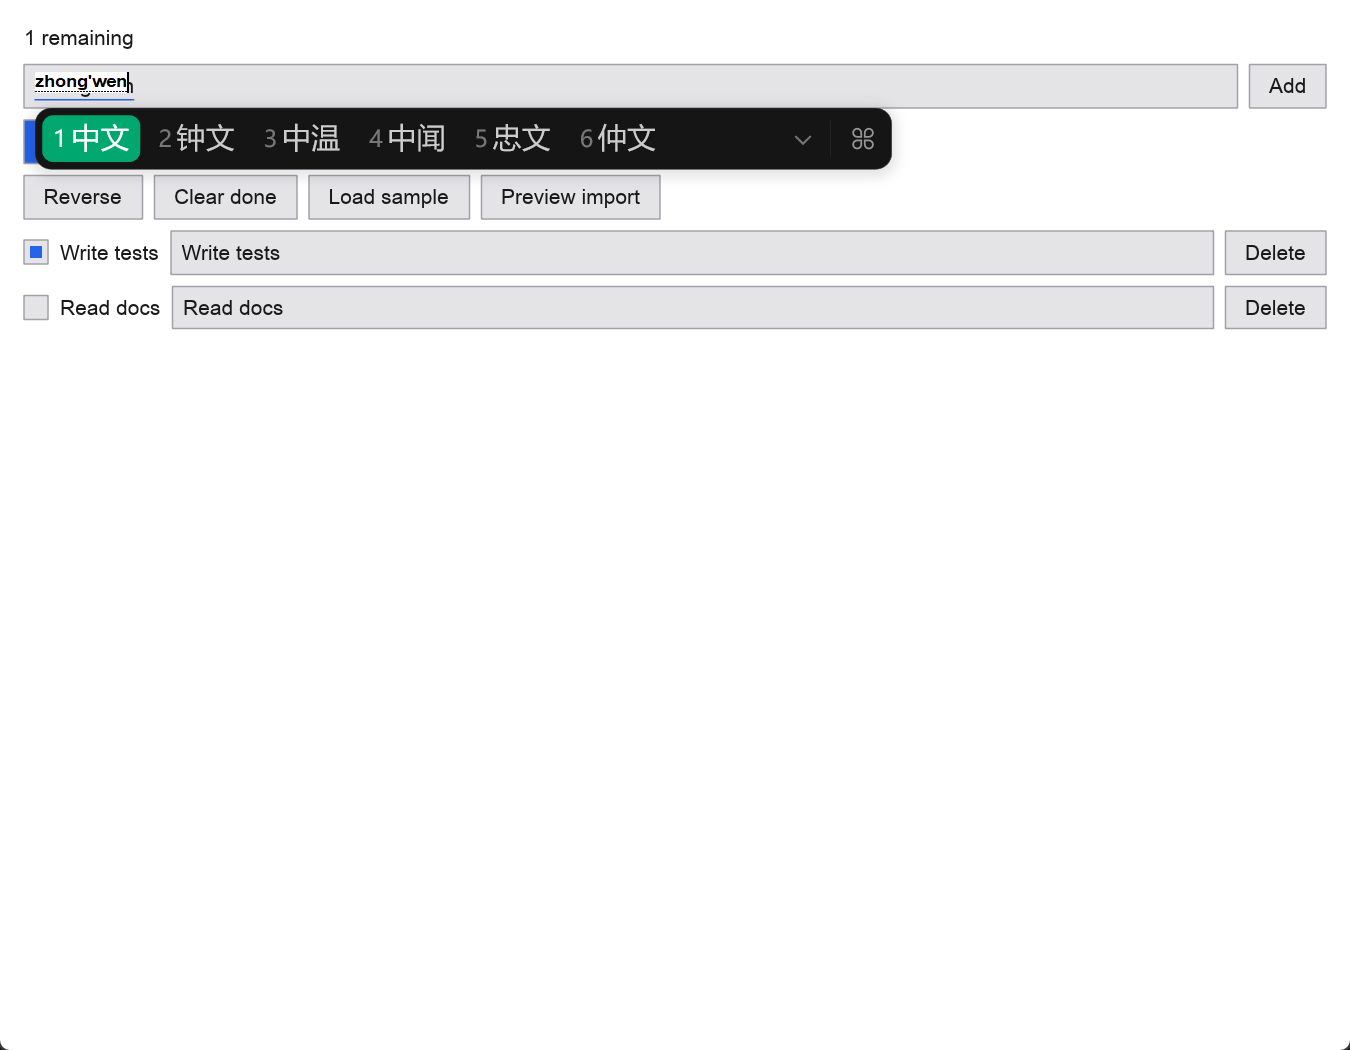
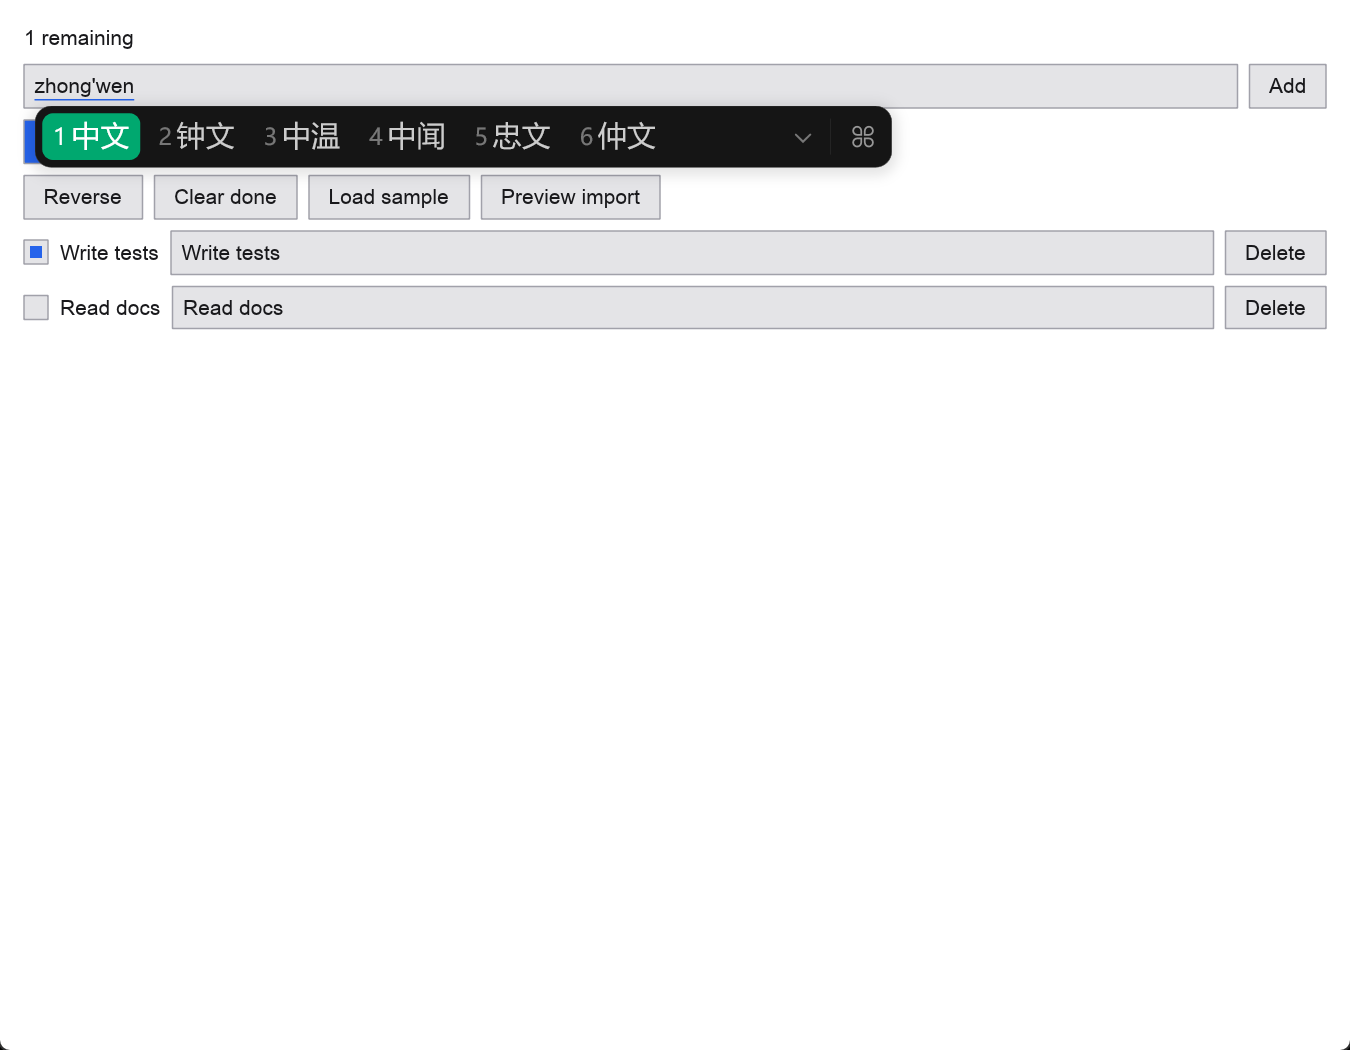
fix: draw the IME draft once, inside the input (#98)
Forwarding WM_IME_STARTCOMPOSITION to DefWindowProc lets Microsoft Pinyin
draw its own composition window on top of the app-drawn preedit, so the
draft appeared as two layers: the inline text plus a white IME overlay.

The window procedure now consumes WM_IME_STARTCOMPOSITION and only notifies
the runtime. The scene keeps drawing the preedit with the input's normal
text style, while the candidate window stays OS-drawn and anchored at the
preedit start.

Acceptance evidence 07 and the window/IME docs are updated.

diff --git a/crates/windows/src/host.rs b/crates/windows/src/host.rs
@@ -958,9 +958,10 @@ impl Host {
         result
     }
 
-    /// 用 caret 的物理客户区坐标定位 OS 组合与候选窗口；组合中改用 preedit 起点。
+    /// 把组合位置告诉 IME，并用 preedit 起点定位候选窗口。
     ///
-    /// `COMPOSITIONFORM` / `CANDIDATEFORM` 的坐标相对窗口左上角，不是屏幕坐标。
+    /// 系统组合窗口本身被 `WM_IME_STARTCOMPOSITION` 的窗口过程分支抑制；这里的
+    /// `COMPOSITIONFORM` 仍参与候选窗定位。两个结构的坐标相对窗口左上角，不是屏幕坐标。
     fn position_ime(&self, snapshot: &PresentationSnapshot) {
         let Some(node) = focused_input(snapshot) else {
             return;
@@ -971,8 +972,7 @@ impl Host {
         let Some(scene) = &self.scene else {
             return;
         };
-        // 组合窗口放在 preedit 起点：UI 已绘制 preedit，OS 的组合串与它重叠，
-        // 而不是在 caret（preedit 末尾）之后再画一份。
+        // 候选窗锚在 preedit 起点，而不是 caret（preedit 末尾）。
         let composition_start = snapshot
             .node(node)
             .and_then(SnapshotElement::edit)
@@ -1076,7 +1076,7 @@ impl Host {
             .map_err(HostError::Scene)?;
         let snapshot = self.runtime.presentation().map_err(HostError::Runtime)?;
         let mut scene = Scene::build(&snapshot, viewport).map_err(HostError::Scene)?;
-        // 组合期间由 OS 组合窗口绘制 caret；闪烁只在非组合状态生效。
+        // 组合期间不绘制 caret，草稿由 preedit 下划线标识；闪烁只在非组合状态生效。
         let composing = focused_composition(&snapshot);
         scene.set_caret_visible(self.caret_visible && !composing);
         Ok((scene, snapshot))
@@ -1645,6 +1645,13 @@ unsafe extern "system" fn wndproc(
         // 提交已经由 WM_IME_COMPOSITION 的 GCS_RESULTSTR 或 WM_CHAR 处理；
         // WM_IME_CHAR 若再交给默认窗口过程会产生重复字符。
         WM_IME_CHAR => LRESULT(0),
+        WM_IME_STARTCOMPOSITION => {
+            // 应用自己在输入框里绘制 preedit；把开始消息交给默认过程会让微软
+            // 拼音再画一份组合窗口，与 preedit 叠成两层。这里只通知运行时。
+            // 安全：派发期间不持有宿主引用，窗口过程借出一次。
+            unsafe { with_host(hwnd, |host| host.handle_message(message, wparam, lparam)) };
+            LRESULT(0)
+        }
         WM_PAINT => {
             let mut paint = PAINTSTRUCT::default();
             // 安全：hwnd 来自系统回调；paint 是有效的输出缓冲。

diff --git a/docs/实现/stage-two-验收.md b/docs/实现/stage-two-验收.md
@@ -84,9 +84,11 @@ border-box known dimension 直接交给文本测量，而最终绘制按 content
 **中文只显示草稿，候选确认后仍是草稿。** 微软拼音在候选确认时把提交字符作为
 `WM_CHAR` 送达，而宿主只在非组合状态调用 `insert_text_node`，组合中的字符被
 reducer 拒绝，模型从未写入。修复让组合中的 `WM_CHAR` 走 `compose_commit_node`。
-同一轮还发现应用绘制的 preedit 与系统组合窗口重影：组合窗口原先定位在 preedit
-末尾，现在定位到 preedit 起点，两者重叠。真实微软拼音配合合成按键的证据见
-[07](证据/stage-two/07-ime-preedit-with-candidates.png)（候选窗口、单一 preedit）
+第二轮人工试跑又发现草稿被画了两层：应用绘制 preedit，输入法又在自己的组合窗口里
+画了一份拼音（白色浮层）。窗口过程现在消费 `WM_IME_STARTCOMPOSITION` 而不交给
+默认过程，微软拼音不再绘制自己的组合窗口；preedit 由场景按输入框的普通文本样式
+绘制，候选窗仍由系统绘制并锚在 preedit 起点。真实微软拼音配合合成按键的证据见
+[07](证据/stage-two/07-ime-preedit-with-candidates.png)（单一 preedit，候选窗）
 与 [08](证据/stage-two/08-ime-committed.png)（提交为“中文”）。
 
 **Escape 取消失败。** 微软拼音吞掉 Escape 后只送达 `VK_PROCESSKEY`，不发送
